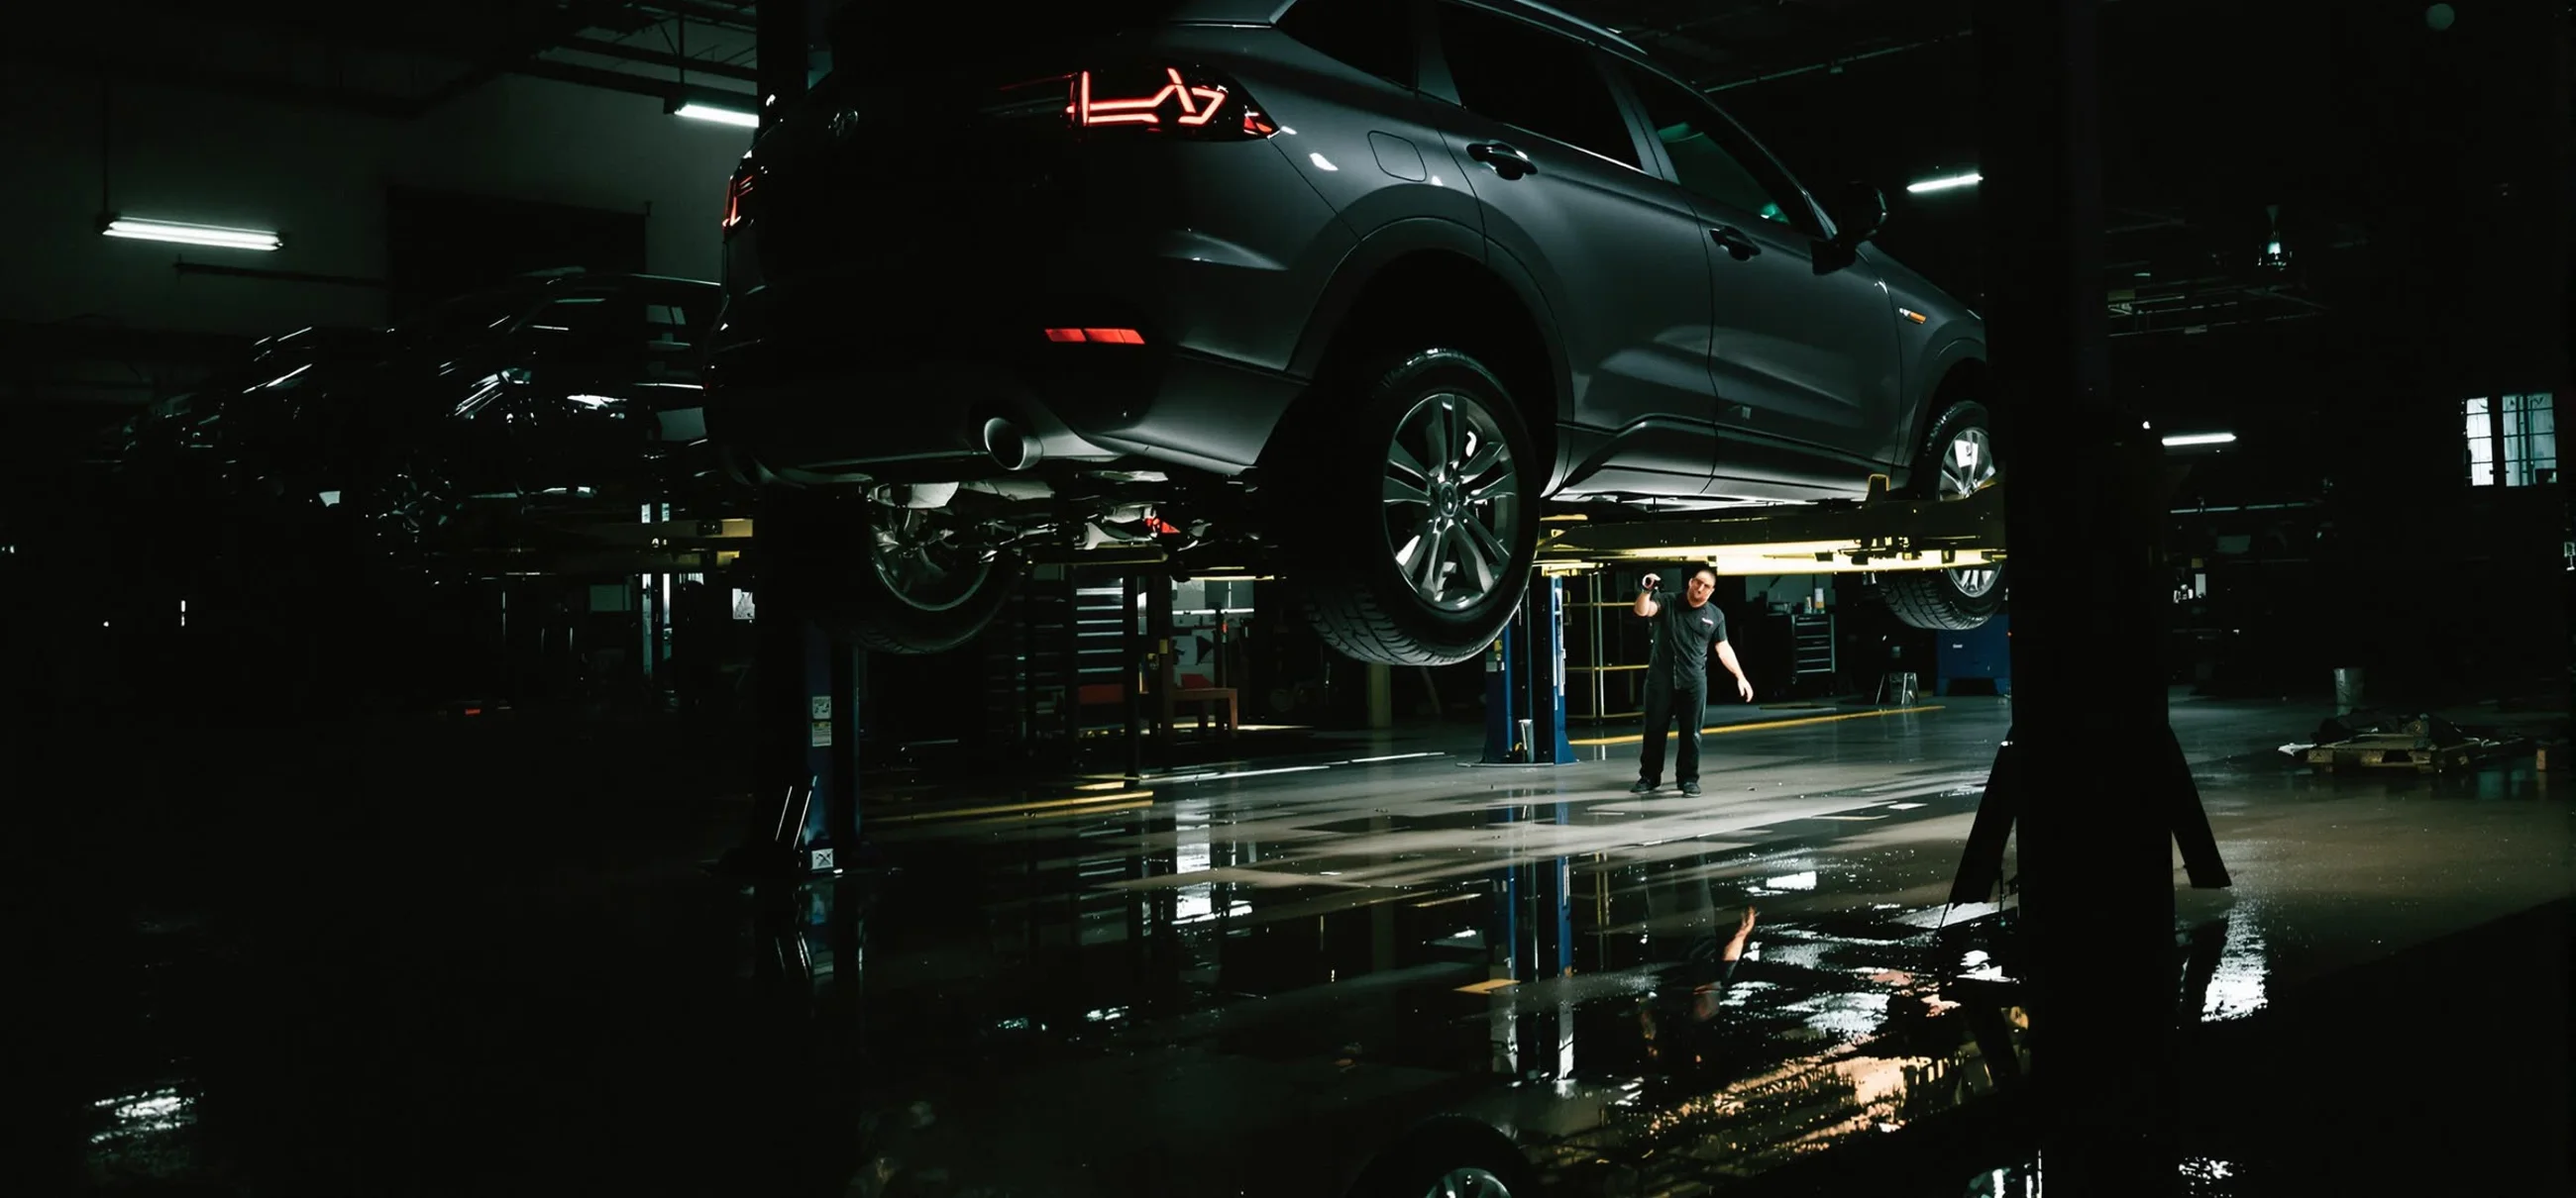
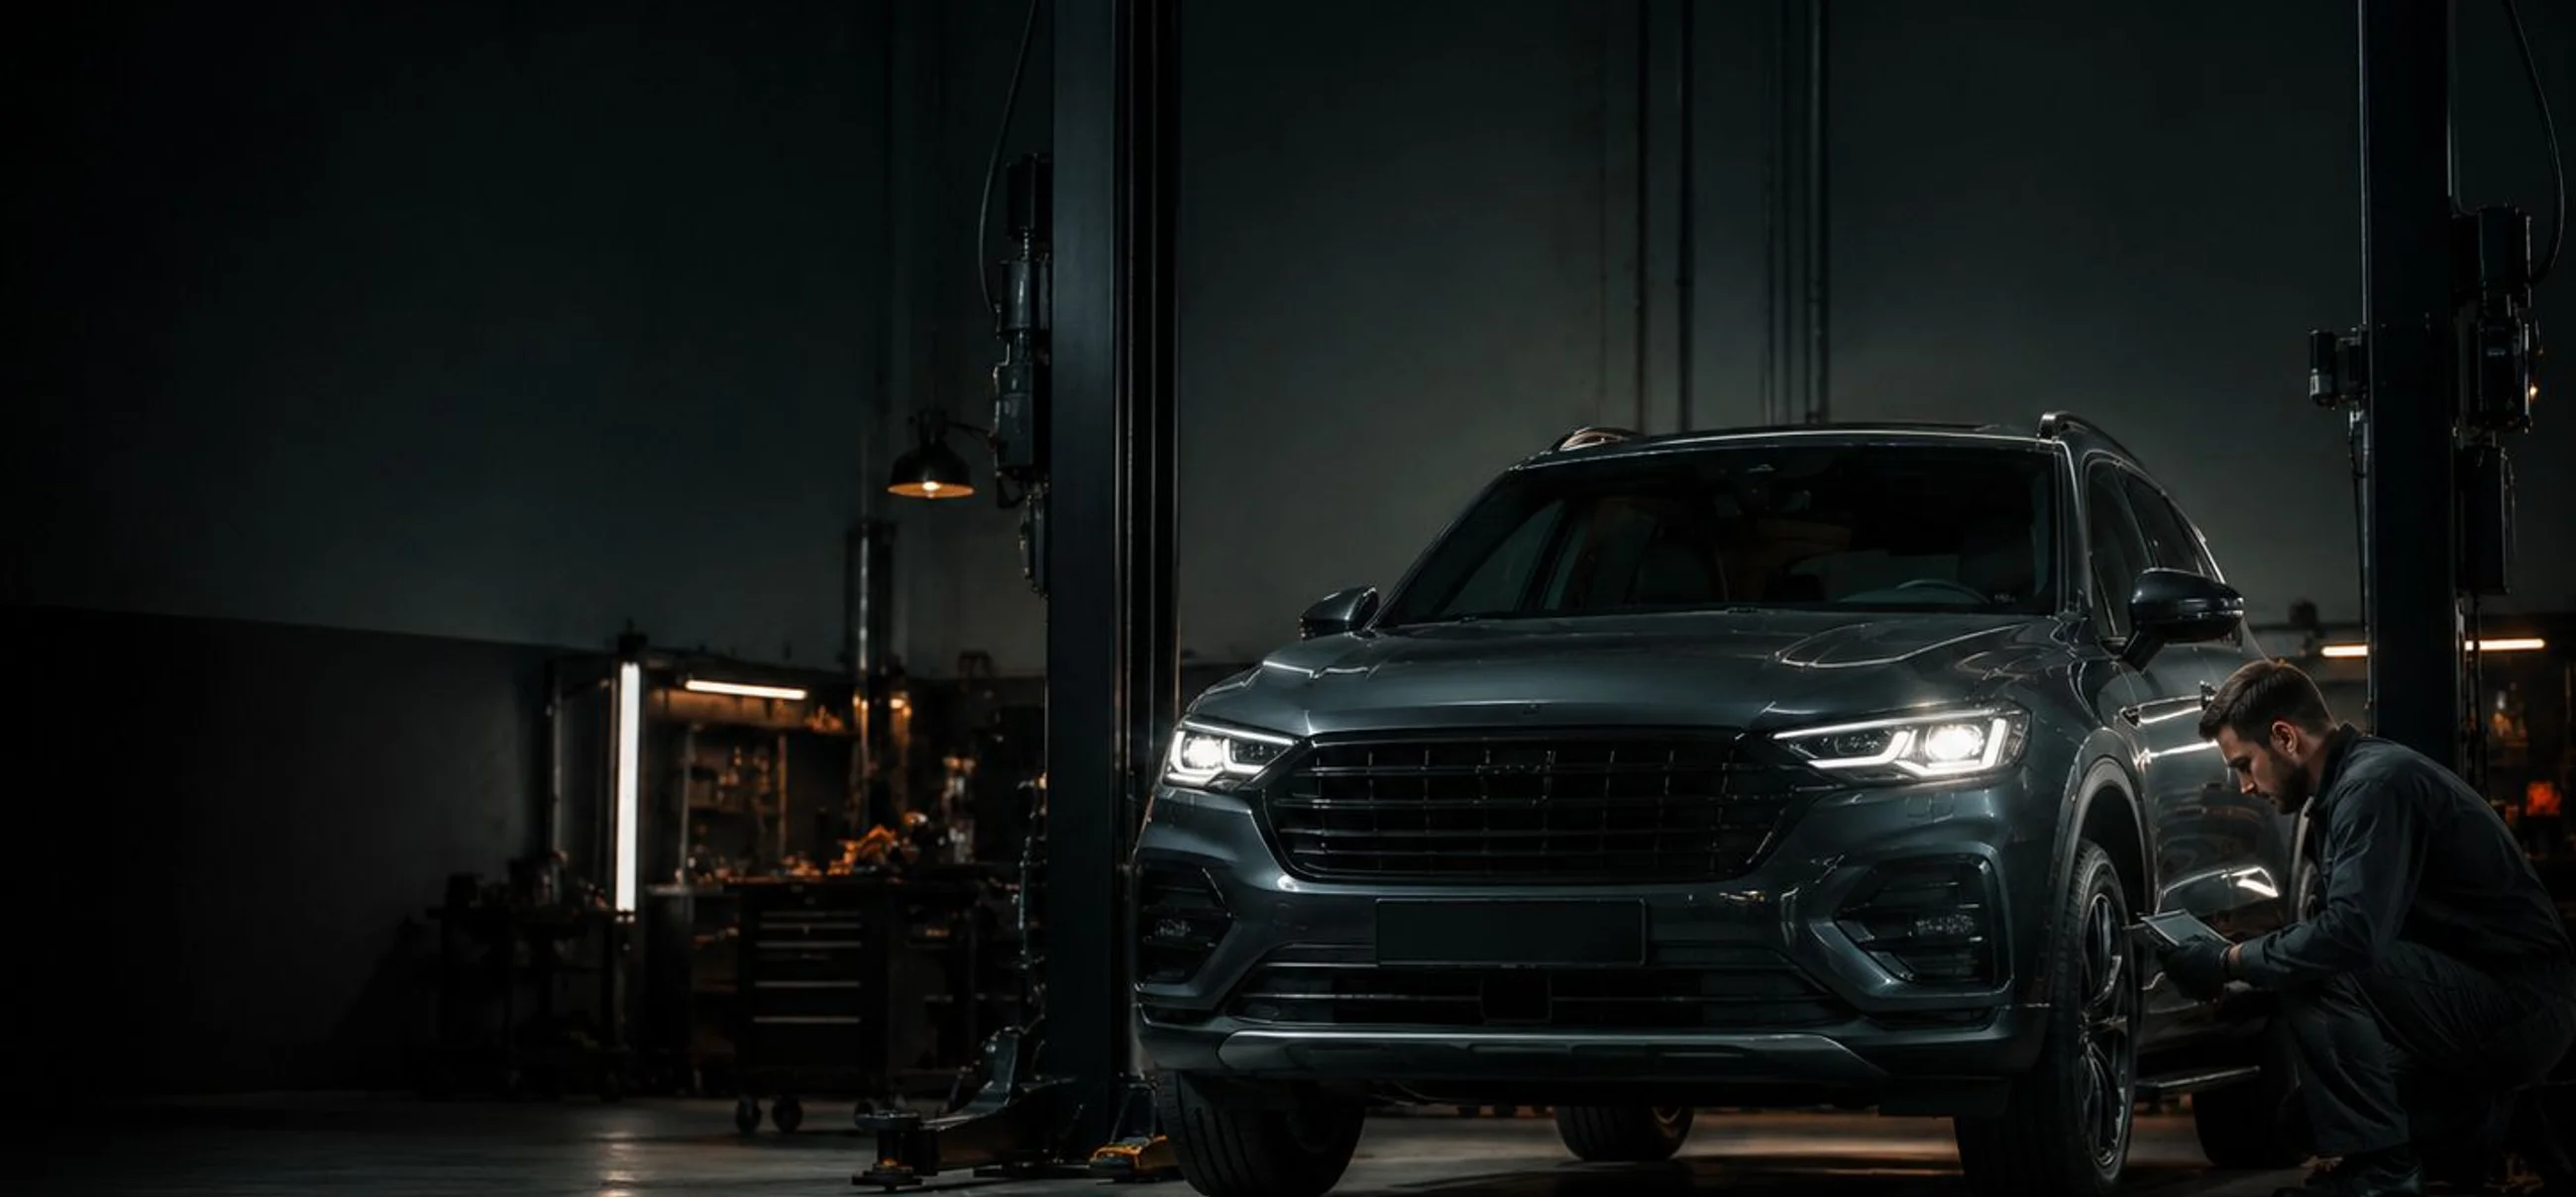
360: compact request panel, corrected contact crop, imported photography
FORM. It had been opened up twice on request and had gone slack: 48px between
rows, a permanent 16px reserved under every field for an error that is usually
not there, and an 8rem note box — 980px of panel for seven fields. It becomes a
panel with its own ground, flat and square with no shadow, and the fields
become wells sunk into it so the relationship reads without the space. 758px
now, every field and the consent row unchanged in function.

CONTACT PHOTOGRAPH. sharp's 'attention' crop chose a band that cut the roof off
the car and kept 400px of empty floor. Five candidate bands were rendered and
looked at; the frame is now chosen at y=130 of the source rather than searched
for, and the parallax over-scale came down from 1.16 to 1.08 so it cannot crop
the chosen frame a second time.

PHOTOGRAPHY imported from the 360 project: six sharper service frames and the
inspection-lift interior for the contact band.

Measured: 26/26 headings, 9/9 link targets, 7 service options, all seven form
fields, no collisions and no horizontal scroll at four widths, worst contrast
run 5.60:1, no console errors, motion checks all pass, masthead + hero equals
the viewport exactly at eight sizes.

diff --git a/360/assets/css/main.css b/360/assets/css/main.css
@@ -485,8 +485,8 @@ img{display:block;max-width:100%;height:auto}
    ====================================================================== */
 .ct{background:var(--ink);color:var(--on-ink);position:relative}
 .ct__ph{width:100%;aspect-ratio:2.15/1;max-height:36rem;position:relative;overflow:hidden}
-.ct__ph img{width:100%;height:100%;object-fit:cover;object-position:50% 54%;
-  transform:scale(1.16) translate3d(0,var(--par,0px),0);will-change:transform}
+.ct__ph img{width:100%;height:100%;object-fit:cover;object-position:50% 50%;
+  transform:scale(1.08) translate3d(0,var(--par,0px),0);will-change:transform}
 .ct__in{display:grid;grid-template-columns:repeat(12,1fr);gap:var(--s5) var(--s7);
   padding-block:var(--s9) var(--s10)}
 .ct__in>.t-eyebrow{grid-column:1 / -1}
@@ -511,9 +511,17 @@ img{display:block;max-width:100%;height:auto}
 .ct__side .lnk{margin-top:var(--s6)}
 
 /* the form */
-.ct__form{grid-column:6 / span 7;border-top:2px solid var(--on-ink);padding-top:var(--s5)}
+/* The form had been opened up twice and had gone slack: 48px between rows, a
+   permanent 16px reserved under every field for an error that is usually not
+   there, and a 8rem note box. It becomes a panel with its own ground — flat,
+   square, no shadow — and the fields become wells sunk into it, so the
+   relationship reads without any of that space. */
+.ct__form{grid-column:6 / span 7;align-self:start;
+  background:#1e1f1e;border:1px solid rgba(244,241,238,.14);
+  padding:var(--s6) var(--s6) var(--s7)}
 .ct__form>header{display:flex;justify-content:space-between;align-items:baseline;
-  gap:var(--s5);margin-bottom:var(--s8)}
+  gap:var(--s5);margin-bottom:var(--s6);padding-bottom:var(--s4);
+  border-bottom:1px solid rgba(244,241,238,.14)}
 .ct__form>header b{font-family:'Plex Mono',ui-monospace,monospace;font-weight:500;
   font-size:.6875rem;letter-spacing:.2em;text-transform:uppercase}
 .ct__form>header span{font-family:'Plex Mono',ui-monospace,monospace;font-size:.6875rem;
@@ -526,17 +534,17 @@ img{display:block;max-width:100%;height:auto}
    takes the full width of the form. A hairline-underline field would have
    been the exclusive-body-shop version of this. */
 /* the finish of the page is the form; it gets the ramp, not the gutter */
-.fgrid{display:grid;grid-template-columns:1fr 1fr;gap:var(--s7) var(--s6)}
-.f{display:flex;flex-direction:column;gap:var(--s4)}
+.fgrid{display:grid;grid-template-columns:1fr 1fr;gap:var(--s5) var(--s5)}
+.f{display:flex;flex-direction:column;gap:var(--s3)}
 .f--wide{grid-column:1 / -1}
 .f label{font-family:'Plex Mono',ui-monospace,monospace;font-weight:500;
   font-size:.6875rem;letter-spacing:.18em;text-transform:uppercase;color:var(--on-ink-2)}
 .f label em{font-style:normal;color:var(--signal-lt)}
 .f input,.f select,.f textarea{
-  background-color:rgba(244,241,238,.07);
-  border:1px solid rgba(244,241,238,.42);      /* 3.77:1 on ink */
+  background-color:rgba(0,0,0,.34);
+  border:1px solid rgba(244,241,238,.34);
   color:var(--on-ink);font-family:'Inter Tight',sans-serif;font-size:1.0625rem;
-  padding:var(--s4);width:100%;min-height:3.25rem;
+  padding:var(--s3) var(--s4);width:100%;min-height:2.875rem;
   transition:border-color .18s var(--e),background-color .18s var(--e),
              background-size .22s cubic-bezier(.65,0,.35,1)}
 
@@ -547,7 +555,7 @@ img{display:block;max-width:100%;height:auto}
   background-repeat:no-repeat;background-position:left bottom;
   background-size:0% 2px}
 .f input:focus,.f textarea:focus{background-size:100% 2px}
-.f textarea{resize:vertical;min-height:8rem;line-height:1.5}
+.f textarea{resize:vertical;min-height:5.5rem;line-height:1.5}
 .f select{cursor:pointer;appearance:none;
   padding-right:var(--s8);
   background-image:linear-gradient(var(--signal-lt),var(--signal-lt)),
@@ -558,9 +566,9 @@ img{display:block;max-width:100%;height:auto}
 .f select:focus{background-size:100% 2px, 7px 7px, 7px 7px}
 .f select option{background:var(--ink);color:var(--on-ink)}
 .f input::placeholder,.f textarea::placeholder{color:var(--on-ink-3);opacity:1}
-.f :is(input,select,textarea):hover{border-color:rgba(244,241,238,.62)}
+.f :is(input,select,textarea):hover{border-color:rgba(244,241,238,.55)}
 .f :is(input,select,textarea):focus{outline:none;
-  border-color:rgba(244,241,238,.62);background-color:rgba(244,241,238,.11)}
+  border-color:rgba(244,241,238,.55);background-color:rgba(0,0,0,.5)}
 .f :is(input,select,textarea):focus-visible{outline:2px solid var(--on-ink);outline-offset:2px}
 .f[data-bad] :is(input,select,textarea){border-color:#ff8a7a;
   background-color:rgba(255,138,122,.10)}
@@ -572,18 +580,19 @@ img{display:block;max-width:100%;height:auto}
   linear-gradient(135deg,#ff8a7a 50%,transparent 50%);
   background-size:100% 2px, 7px 7px, 7px 7px}
 .f__err{font-family:'Plex Mono',ui-monospace,monospace;font-weight:500;font-size:.6875rem;
-  letter-spacing:.12em;text-transform:uppercase;color:#ff8a7a;min-height:1em}
+  letter-spacing:.12em;text-transform:uppercase;color:#ff8a7a}
+.f__err:empty{display:none}
 
 /* a checkbox somebody can actually hit, and a whole row that toggles it */
 .consent{grid-column:1 / -1;display:flex;gap:var(--s4);align-items:center;
-  margin-top:var(--s2);padding:var(--s5);
-  border:1px solid rgba(244,241,238,.42)}
+  margin-top:var(--s1);padding:var(--s4);
+  background:rgba(0,0,0,.28);border:1px solid rgba(244,241,238,.20)}
 .consent input{width:1.5rem;height:1.5rem;flex:0 0 auto;
   accent-color:var(--signal-lt);cursor:pointer}
 .consent label{font-size:.9375rem;line-height:1.45;color:var(--on-ink);cursor:pointer}
 
 .ct__form .btn{grid-column:1 / -1;justify-content:center;width:100%;
-  margin-top:var(--s3);padding:var(--s5) var(--s6);font-size:.8125rem}
+  margin-top:var(--s3);padding:var(--s4) var(--s6);font-size:.8125rem}
 
 .sent{grid-column:1 / -1;margin-top:var(--s5);padding:var(--s5);
   border:1px solid var(--signal-lt);color:var(--on-ink);font-size:.9375rem;line-height:1.55}
@@ -675,7 +684,7 @@ img{display:block;max-width:100%;height:auto}
   .ct__ph{aspect-ratio:16/10}
   .ct__in{grid-template-columns:1fr;padding-block:var(--s8)}
   .ct__in>h2,.ct__side,.ct__form{grid-column:1}
-  .ct__form{margin-top:var(--s8)}
+  .ct__form{margin-top:var(--s7);padding:var(--s5) var(--s5) var(--s6)}
   .ft__in{grid-template-columns:1fr 1fr}
   .ft__id{grid-column:1 / -1}
   .ft__nav{grid-column:1}
@@ -1013,5 +1022,5 @@ img{display:block;max-width:100%;height:auto}
   .f input:focus,.f textarea:focus{background-size:100% 2px !important}
   .js-motion .hero__ph img{transform:none !important;transition:none !important}
   .shop__ph img{transform:scale(1.18) !important;transition:none !important}
-  .ct__ph img{transform:scale(1.16) !important;transition:none !important}
+  .ct__ph img{transform:scale(1.08) !important;transition:none !important}
 }

diff --git a/360/index.html b/360/index.html
@@ -385,8 +385,8 @@
        ================================================================ -->
   <section class="ct on-ink" id="contact" data-seq>
     <div class="ct__ph" aria-hidden="true" data-reveal="band" data-i="0">
-      <img src="assets/img/exterior.webp" width="2600" height="1210" loading="lazy"
-        data-par=".085" alt="">
+      <img src="assets/img/exterior.webp" width="2600" height="1209" loading="lazy"
+        data-par=".055" alt="">
     </div>
 
     <div class="wrap ct__in">
